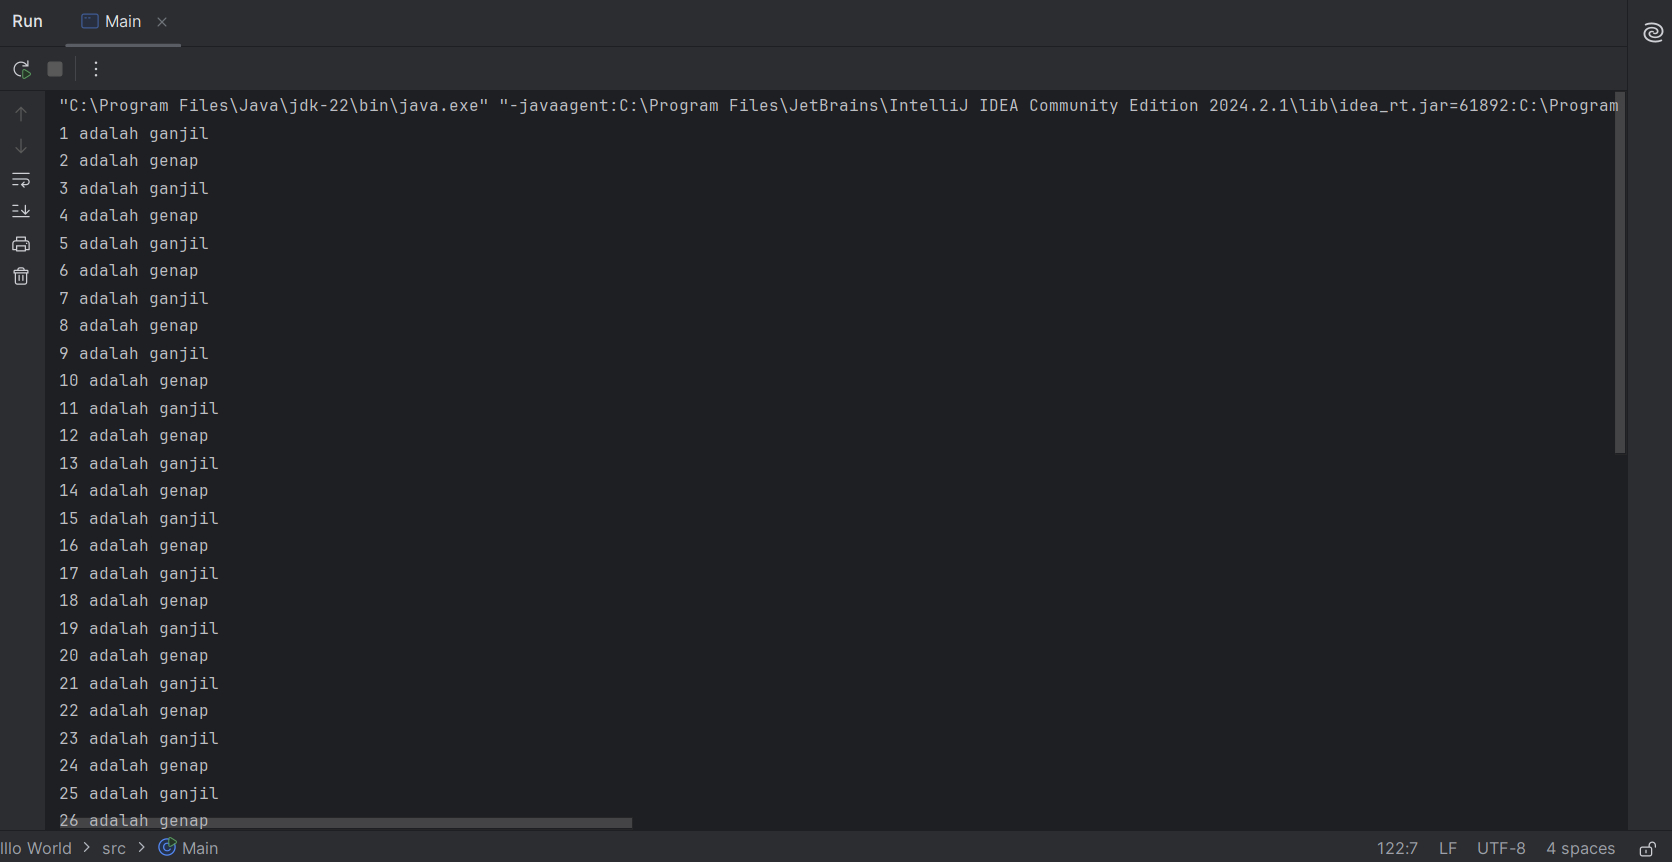
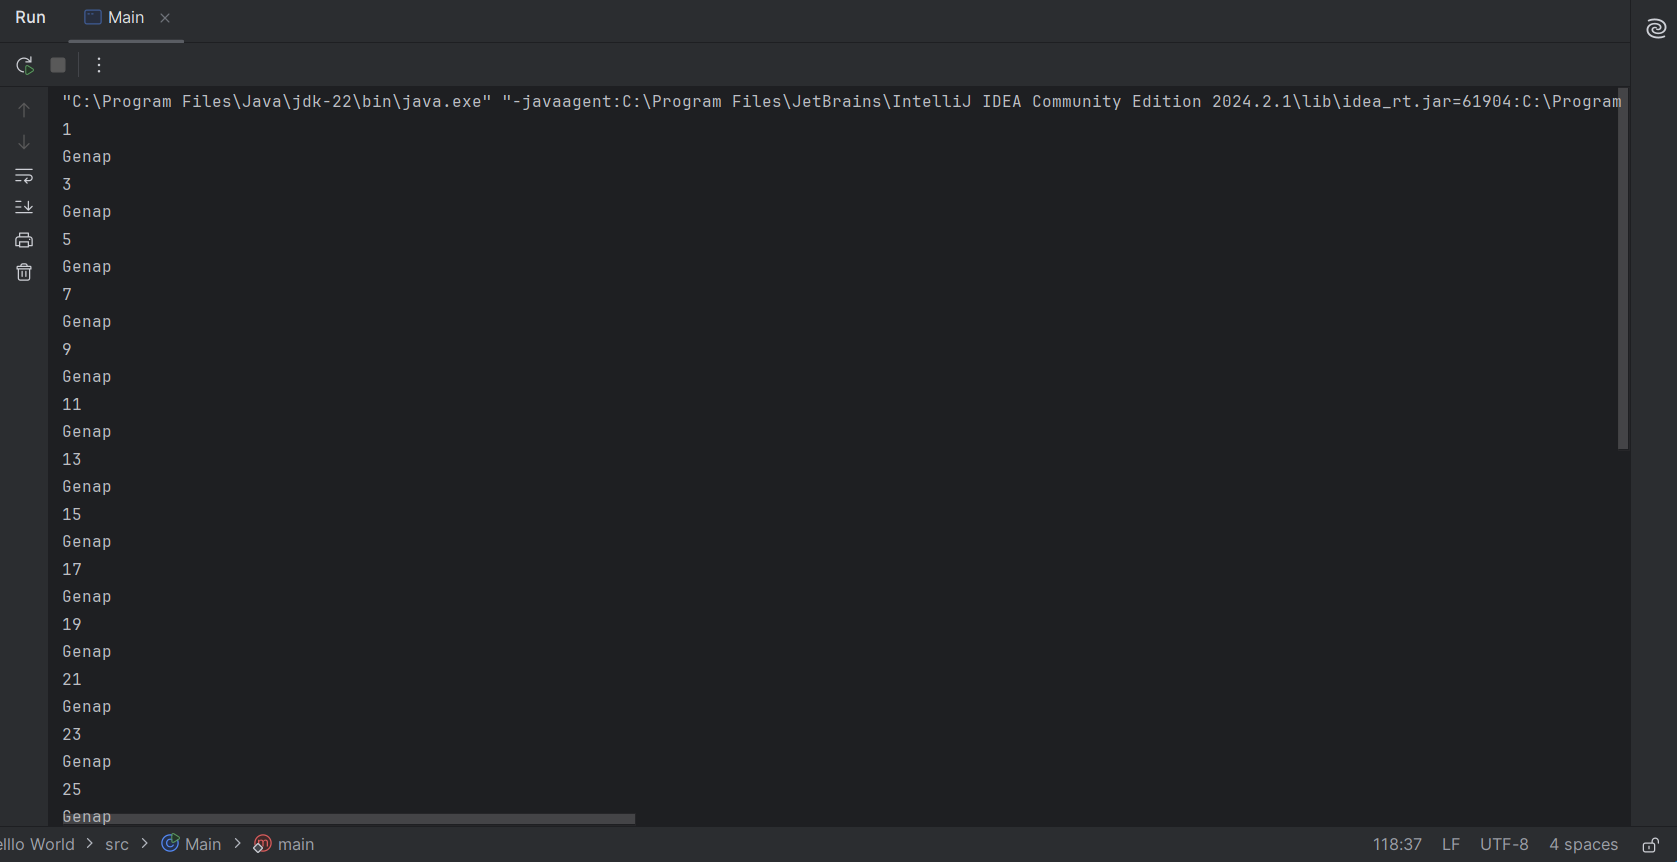
Jawban

Changed region(s): [[0.0, 0.0, 0.9641, 0.9954], [0.8086, 0.9652, 0.9952, 0.9954], [0.9641, 0.0302, 0.9952, 0.0603]]

diff --git a/pre-test/day-1/Helllo World/src/Main.java b/pre-test/day-1/Helllo World/src/Main.java
@@ -112,10 +112,10 @@ public class Main {
 
         for (int i = 1; i <= 50; i++){
             if (i%2 == 0){
-                System.out.println(i + " adalah genap");
+                System.out.println("Genap");
             }
             else{
-                System.out.println(i + " adalah ganjil");
+                System.out.println(i);
             }
 
         }
